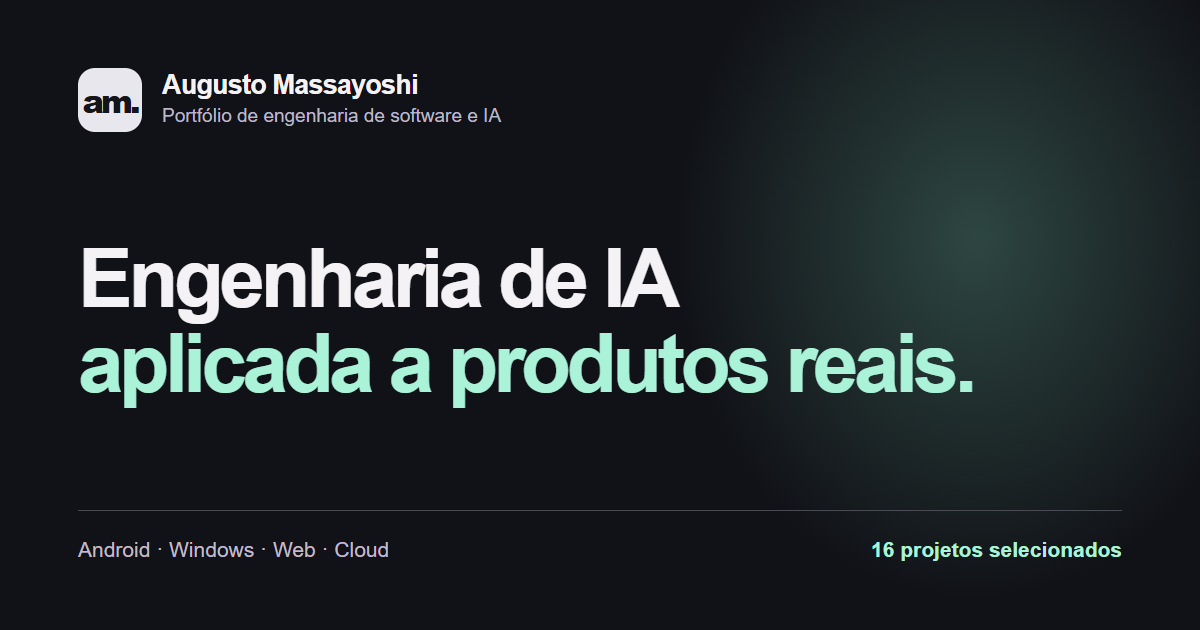
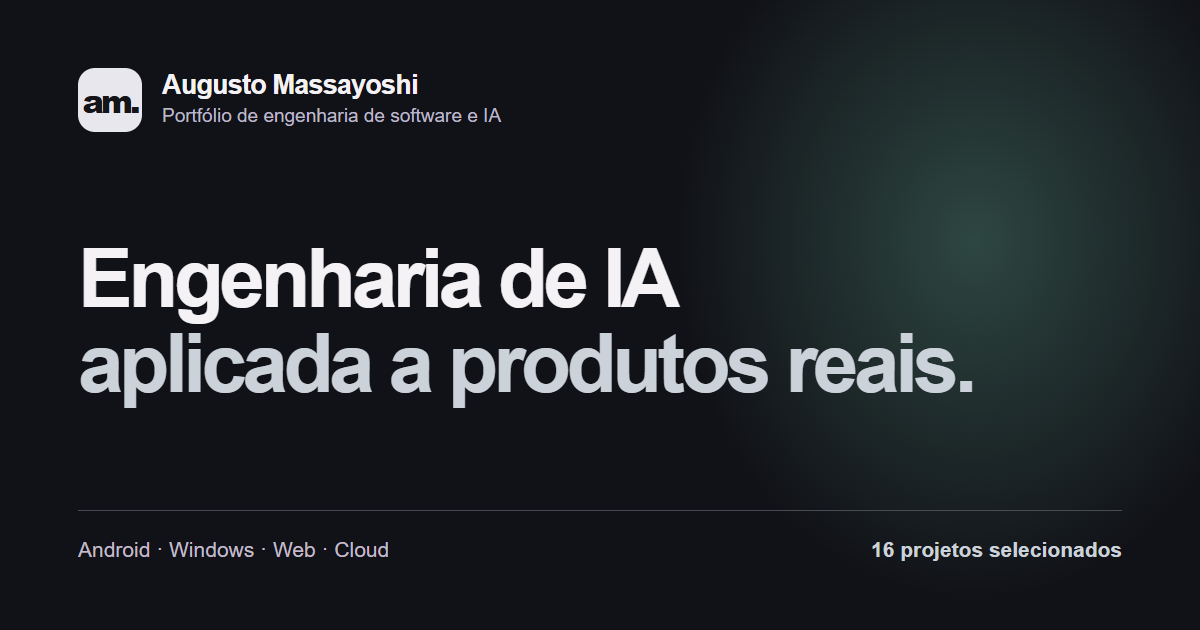
Apply platinum color system across portfolio and social previews

Changed region(s): [[0.0617, 0.5127, 0.8325, 0.6635], [0.7092, 0.8444, 0.925, 0.9048]]

diff --git a/site-v16/design-refine-v13.css b/site-v16/design-refine-v13.css
@@ -1,9 +1,11 @@
 /* V13: a restrained, evidence-first editorial system for the ASUS staging.
    Semantic status/provenance remains on detailed case pages; no fake screenshots. */
 :root {
- --ds-accent:#176e60;
- --ds-accent-strong:#105748;
- --ds-on-accent:#fff;
+ --ds-accent:#526173;
+ --ds-accent-strong:#3E4C60;
+ --ds-on-accent:#16191E;
+ --ds-cta-fill:#CCD2DA;
+ --ds-cta-hover:#E1E5EB;
  --ds-space-1:4px;--ds-space-2:8px;--ds-space-3:12px;
  --ds-space-4:16px;--ds-space-6:24px;--ds-space-8:32px;
  --ds-space-12:48px;
@@ -38,15 +40,15 @@ h1 em,h2 em,h3 em,.cosmos-core h1 em,.education-intro h2 em,
  margin-block:18px 20px;text-wrap:balance;text-transform:none!important
 }
 .cosmos-core h1 span{display:block;color:#f5f1ee}
-.cosmos-core h1 span:last-child{color:#aaf3d9}
+.cosmos-core h1 span:last-child{color:#CCD2DA}
 .cosmos-deck{max-width:630px;color:#d3cfd7;font-size:clamp(15px,1.25vw,18px);line-height:1.7}
 .cosmos-actions{gap:12px;margin-top:28px}
 .cosmos-actions>a{display:inline-flex;align-items:center;justify-content:center;gap:15px;
  font-size:13px;letter-spacing:.01em;font-weight:750;min-height:52px;
  padding:12px 20px;border-radius:10px}
-.cosmos-primary{background:#aaf3d9!important;color:#12241f!important;border-color:#aaf3d9!important;
- box-shadow:0 7px 23px rgba(53,171,141,.14)}
-.cosmos-primary:hover{background:#c5ffe8!important;border-color:#c5ffe8!important}
+ .cosmos-primary{background:#CCD2DA!important;color:#16191E!important;border-color:#CCD2DA!important;
+ box-shadow:0 7px 23px rgba(135,152,175,.13)}
+.cosmos-primary:hover{background:#E1E5EB!important;border-color:#E1E5EB!important}
 .cosmos-secondary{background:transparent!important;border-color:#65616d!important;color:#efeaf2!important}
 .cosmos-social{gap:18px}
 .cosmos-social a{font-family:var(--body,"Segoe UI",sans-serif);font-size:12px;font-weight:650}
@@ -136,14 +138,14 @@ h1 em,h2 em,h3 em,.cosmos-core h1 em,.education-intro h2 em,
 .project .project-case-link{
  display:flex;align-items:center;justify-content:space-between;
  align-self:stretch;gap:12px;min-height:47px;
- padding:11px 14px;border:1px solid var(--ds-accent);
- border-radius:10px;background:var(--ds-accent);color:var(--ds-on-accent);
+ padding:11px 14px;border:1px solid var(--ds-cta-fill);
+ border-radius:10px;background:var(--ds-cta-fill);color:var(--ds-on-accent);
  text-decoration:none;font:750 13px/1.45 var(--body,"Segoe UI",sans-serif);
  margin-top:12px!important;margin-bottom:10px;
  transition:transform .18s var(--ds-ease),background .18s,border-color .18s
 }
 .project .project-case-link:hover,.project .project-case-link:focus-visible{
- background:var(--ds-accent-strong);border-color:var(--ds-accent-strong);
+ background:var(--ds-cta-hover);border-color:var(--ds-cta-hover);
  color:var(--ds-on-accent);transform:translateY(-1px)
 }
 .project .project-case-link img{width:16px;height:16px;filter:invert(1);display:block}
@@ -161,8 +163,8 @@ h1 em,h2 em,h3 em,.cosmos-core h1 em,.education-intro h2 em,
 .case-body :is(h1,h2,h3) em{font-style:normal!important;font-family:inherit!important;color:inherit!important;letter-spacing:inherit!important}
 .case-heading-actions{gap:12px}
 .case-heading-actions a{border-radius:10px;min-height:46px}
-.case-heading-actions .case-action-primary{background:#aaf3d9;color:#12241f;border-color:#aaf3d9}
-.case-heading-actions .case-action-primary:hover{background:#d0ffef;border-color:#d0ffef}
+.case-heading-actions .case-action-primary{background:#CCD2DA;color:#16191E;border-color:#CCD2DA}
+.case-heading-actions .case-action-primary:hover{background:#E1E5EB;border-color:#E1E5EB}
 .case-artframe,.case-artframe .case-art{border-radius:14px}
 .case-artframe .case-artframe-label{display:none}
 .case-scroll-strip{display:none}
@@ -182,7 +184,7 @@ h1 em,h2 em,h3 em,.cosmos-core h1 em,.education-intro h2 em,
 .back-to-top img{width:16px;height:16px;transform:rotate(-45deg)}
 .back-to-top:hover{border-color:var(--ds-accent);color:var(--ds-accent)}
 @media (prefers-color-scheme:dark){
- :root{--ds-accent:#aaf3d9;--ds-accent-strong:#d0ffea;--ds-on-accent:#11241d}
+ :root{--ds-accent:#CCD2DA;--ds-accent-strong:#E1E5EB;--ds-on-accent:#16191E;--ds-cta-fill:#CCD2DA;--ds-cta-hover:#E1E5EB}
  .project-preview{border-color:#45444d;background:#282931}
  .project-preview img{background:#24252e}
  .project-preview figcaption{background:#24252b;color:#d5d2df}
@@ -190,8 +192,8 @@ h1 em,h2 em,h3 em,.cosmos-core h1 em,.education-intro h2 em,
  .project .project-case-link img{filter:none}
  .project .project-type,.project-top .number{color:#bcb8c6}
  .project .project-techline,.project .project-evidence{color:#bdb9c5}
- .project .project-link{color:#aaf3d9}
- .project .project-link:hover{color:#d0ffea}
+ .project .project-link{color:#CCD2DA}
+ .project .project-link:hover{color:#E1E5EB}
  .project:hover,.project:focus-within{box-shadow:0 17px 38px rgba(0,0,0,.3)}
  .back-to-top{background:#282932;border-color:#56545e;color:#f5f2f7}
 }

diff --git a/site-v16/orbit.css b/site-v16/orbit.css
@@ -12,7 +12,7 @@
 .cosmos-projects{position:absolute;z-index:1;inset:0;pointer-events:none;overflow:visible}
 .cosmos-node{position:absolute;top:0;left:0;transform:translate3d(0,0,0);display:flex;flex-direction:column;align-items:center;justify-content:center;width:86px;height:86px;text-decoration:none;border-radius:22px;outline-offset:7px;pointer-events:auto;will-change:transform;transition:filter .2s ease}
 .cosmos-node img{display:block;width:72px;height:72px;object-fit:contain;box-shadow:0 11px 24px rgba(0,0,0,.5),0 0 24px rgba(126,174,217,.12);border-radius:16px;transition:transform .2s ease,box-shadow .2s ease}
-.cosmos-node:hover img,.cosmos-node:focus-visible img{transform:translateY(-7px) scale(1.13);box-shadow:0 18px 33px rgba(0,0,0,.5),0 0 34px rgba(191,251,181,.38)}
+.cosmos-node:hover img,.cosmos-node:focus-visible img{transform:translateY(-7px) scale(1.13);box-shadow:0 18px 33px rgba(0,0,0,.5),0 0 34px rgba(204,210,218,.36)}
 .cosmos-node .cosmos-label{opacity:0;pointer-events:none;white-space:nowrap;position:absolute;top:calc(100% + 5px);left:50%;transform:translateX(-50%) translateY(5px);background:#f3f5ef;color:#0e1b20;padding:6px 10px;border-radius:6px;font-size:11px;font-weight:750;letter-spacing:-.02em;box-shadow:0 8px 25px rgba(0,0,0,.25);transition:opacity .18s ease,transform .18s ease}
 .cosmos-node:hover .cosmos-label,.cosmos-node:focus-visible .cosmos-label{opacity:1;transform:translateX(-50%) translateY(0)}
 .cosmos-core{position:absolute;z-index:3;left:50%;top:47%;transform:translate(-50%,-50%);text-align:center;width:min(700px,calc(100% - 50px));pointer-events:none}
@@ -90,7 +90,7 @@
  .cosmos-mobile-label span{color:#798d83}
  .cosmos-mobile-rail{display:flex;overflow-x:auto;overscroll-behavior-inline:contain;scroll-snap-type:x mandatory;gap:12px;padding:0 18px 30px;scrollbar-color:#3c5d5b transparent}
  .cosmos-mobile-rail a{flex:0 0 124px;scroll-snap-align:center;display:flex;flex-direction:column;align-items:center;gap:8px;padding:12px 7px 13px;background:#171f2b;border:1px solid #33474f;border-radius:10px;text-decoration:none;color:#dbe7df;min-height:126px;font-size:11px;font-weight:750;text-align:center}
- .cosmos-mobile-rail a:hover,.cosmos-mobile-rail a:focus-visible{border-color:#d4ff8a;background:#21352b}
+ .cosmos-mobile-rail a:hover,.cosmos-mobile-rail a:focus-visible{border-color:#CCD2DA;background:#242832}
  .cosmos-mobile-rail img{height:67px;width:67px;border-radius:14px}
  .education-grid{grid-template-columns:1fr}
 }

diff --git a/site-v16/404.html b/site-v16/404.html
@@ -1,1 +1,1 @@
-<!doctype html><html lang="pt-BR"><head><meta charset="utf-8"><meta name="viewport" content="width=device-width, initial-scale=1"><meta name="robots" content="noindex,follow"><title>Página não encontrada · Augusto Massayoshi</title><link rel="icon" type="image/svg+xml" href="/assets/favicon-am.svg"><style>:root{color-scheme:dark light}body{font-family:system-ui,Arial,sans-serif;background:#111217;color:#f0edf3;min-height:95vh;display:grid;place-content:center;padding:24px}main{max-width:650px}h1{font-size:clamp(36px,5vw,60px);line-height:1.05}p{line-height:1.6;color:#c9c5d0}a{display:inline-flex;background:#aaf3d9;color:#15231f;padding:14px 18px;border-radius:10px;text-decoration:none;font-weight:700;margin-top:22px}a:focus-visible{outline:3px solid #fff;outline-offset:3px}</style></head><body><main><p>404 / ENDEREÇO NÃO ENCONTRADO</p><h1>Esta página não está disponível.</h1><p>O portfólio continua acessível a partir da página inicial, com 16 projetos e suas evidências.</p><a href="/">Voltar ao portfólio</a></main></body></html>
+<!doctype html><html lang="pt-BR"><head><meta charset="utf-8"><meta name="viewport" content="width=device-width, initial-scale=1"><meta name="robots" content="noindex,follow"><title>Página não encontrada · Augusto Massayoshi</title><link rel="icon" type="image/svg+xml" href="/assets/favicon-am.svg"><style>:root{color-scheme:dark light}body{font-family:system-ui,Arial,sans-serif;background:#111217;color:#f0edf3;min-height:95vh;display:grid;place-content:center;padding:24px}main{max-width:650px}h1{font-size:clamp(36px,5vw,60px);line-height:1.05}p{line-height:1.6;color:#c9c5d0}a{display:inline-flex;background:#CCD2DA;color:#16191E;padding:14px 18px;border-radius:10px;text-decoration:none;font-weight:700;margin-top:22px}a:focus-visible{outline:3px solid #fff;outline-offset:3px}</style></head><body><main><p>404 / ENDEREÇO NÃO ENCONTRADO</p><h1>Esta página não está disponível.</h1><p>O portfólio continua acessível a partir da página inicial, com 16 projetos e suas evidências.</p><a href="/">Voltar ao portfólio</a></main></body></html>

diff --git a/site-v16/design-polish-v14.css b/site-v16/design-polish-v14.css
@@ -1,7 +1,7 @@
 /* V14 — logo consistency, link arrows with inherited color, and faithful photo framing.
    Keeps the existing V13 layout and automatic light/dark theme. */
 :root{
- --link-icon-contrast:#176e60;
+ --link-icon-contrast:#526173;
  --on-link-surface:#ffffff;
  --frame-border:#514d5a;
  --frame-bg:#201e28;
@@ -70,7 +70,7 @@ a:focus-visible,button:focus-visible{
  border-color:#a795ab;background:#2d2735
 }
 .losttime-v12-frame .ltv12-play-figure>a:focus-visible{
- outline:3px solid #b8ffe5;outline-offset:4px
+ outline:3px solid #CCD2DA;outline-offset:4px
 }
 .losttime-v12-frame .ltv12-play-figure>a img{
  display:block;width:100%;height:auto;
@@ -95,10 +95,10 @@ a:focus-visible,button:focus-visible{
  .project-link img.ui-inline-arrow,.case-action-secondary img.ui-inline-arrow,
  .case-crumb a img.ui-inline-arrow,.case-back-subtle img.ui-inline-arrow,
  .back-to-top img.ui-inline-arrow{filter:invert(1)}
- :root{--link-icon-contrast:#aaf3d9;--on-link-surface:#11241d}
- .project .project-link,.project .project-link svg.ui-inline-arrow{color:#aaf3d9}
- .project .project-link:hover,.project .project-link:focus-visible{color:#d0ffea}
- .project .project-case-link,.project .project-case-link svg.ui-inline-arrow{color:#11241d}
+ :root{--link-icon-contrast:#CCD2DA;--on-link-surface:#16191E}
+ .project .project-link,.project .project-link svg.ui-inline-arrow{color:#CCD2DA}
+ .project .project-link:hover,.project .project-link:focus-visible{color:#E1E5EB}
+ .project .project-case-link,.project .project-case-link svg.ui-inline-arrow{color:#16191E}
  .back-to-top{color:#f5f2f7}
  .back-to-top svg.ui-inline-arrow{stroke:currentColor}
 }

diff --git a/site-v16/qed-refresh-v18.css b/site-v16/qed-refresh-v18.css
@@ -20,7 +20,7 @@
 @media(prefers-reduced-motion:reduce){.qed-avatar-link{transition:none}}
 /* Hero social links: the YouTube mark retains its native red brand color. */
 .cosmos-social .cosmos-social-qed img{filter:none;width:18px;height:18px}
-.cosmos-social .cosmos-social-qed:focus-visible{outline:2px solid #aaf3d9;outline-offset:5px;border-radius:3px}
+.cosmos-social .cosmos-social-qed:focus-visible{outline:2px solid #CCD2DA;outline-offset:5px;border-radius:3px}
 @media(max-width:450px){
  .cosmos-social{
   display:grid;grid-template-columns:repeat(2,max-content);

diff --git a/site-v16/other-work-v17.css b/site-v16/other-work-v17.css
@@ -91,8 +91,8 @@
 .project#cash-map .project-portrait .portrait-ghost,
 .project#crm .project-portrait .portrait-ghost{opacity:.12}
 @media (prefers-color-scheme:dark){
- .other-work-actions .other-work-primary{color:#aaf3d9}
- .other-work-card:hover,.other-work-card:focus-within{border-color:#aaf3d9}
+ .other-work-actions .other-work-primary{color:#CCD2DA}
+ .other-work-card:hover,.other-work-card:focus-within{border-color:#CCD2DA}
  .other-work-actions img.ui-inline-arrow{filter:invert(1)}
 }
 @media(max-width:810px){

diff --git a/site-v16/search-education-v15.css b/site-v16/search-education-v15.css
@@ -23,7 +23,7 @@
 @media (prefers-color-scheme:dark){
  .search-examples{color:#bdbac7}
  .education-item .education-average{border-color:#44424d;color:#c9c4d0}
- .education-average strong{color:#aaf3d9}
+ .education-average strong{color:#CCD2DA}
 }
 @media(max-width:1000px){
  .search-label{width:min(310px,100%)}

diff --git a/site-v16/styles.css b/site-v16/styles.css
@@ -6,8 +6,8 @@
   --subtle: #4b5758;
   --faint: #6a7776;
   --line: #dadeda;
-  --accent: #086f64;
-  --accent-dark: #054b45;
+  --accent: #526173;
+  --accent-dark: #3E4C60;
   --deep: #102a29;
   --deep-border: #31504b;
   --serif: Georgia, "Times New Roman", serif;
